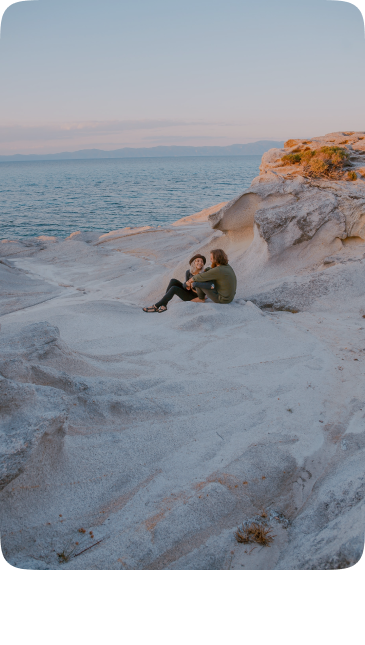
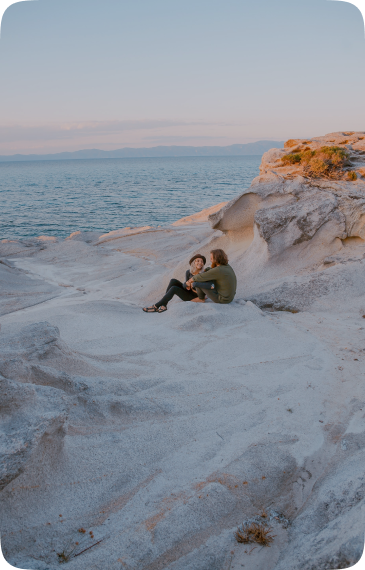
style header, add images flexbox layout

diff --git a/src/sass/gallery.scss b/src/sass/gallery.scss
@@ -36,17 +36,34 @@
         }
 
         &__nav-arrows {
-        @extend %nav-arrows;
-            .nav-arrows__btn{
+            @extend %nav-arrows;
+            position: absolute;
+            bottom: toRem(24px);
+            right: 0;
+
+            .nav-arrows__btn {
                 @extend %nav-arrows__btn;
             }
-            .nav-arrows__btn--next{
+
+            .nav-arrows__btn--next {
                 @extend %nav-arrows__btn--next;
             }
         }
     }
 
     &__content {
+        display: flex;
+        justify-content: space-between;
+        gap: 32px;
+        max-width: toRem(1556px);
+        align-items: center;
+    }
 
+    &__image {
+        max-height: toRem(570px);
+    }
+
+    &__image:nth-child(2) {
+        padding-bottom: toRem(75px);
     }
 }

diff --git a/src/css/style.css b/src/css/style.css
@@ -1180,5 +1180,23 @@ html, body {
   display: block;
   background-color: #FF7757;
 }
+.gallery .section-header__nav-arrows {
+  position: absolute;
+  bottom: 1.5rem;
+  right: 0;
+}
+.gallery__content {
+  display: flex;
+  justify-content: space-between;
+  gap: 32px;
+  max-width: 97.25rem;
+  align-items: center;
+}
+.gallery__image {
+  max-height: 35.625rem;
+}
+.gallery__image:nth-child(2) {
+  padding-bottom: 4.6875rem;
+}
 
 /*# sourceMappingURL=style.css.map */
